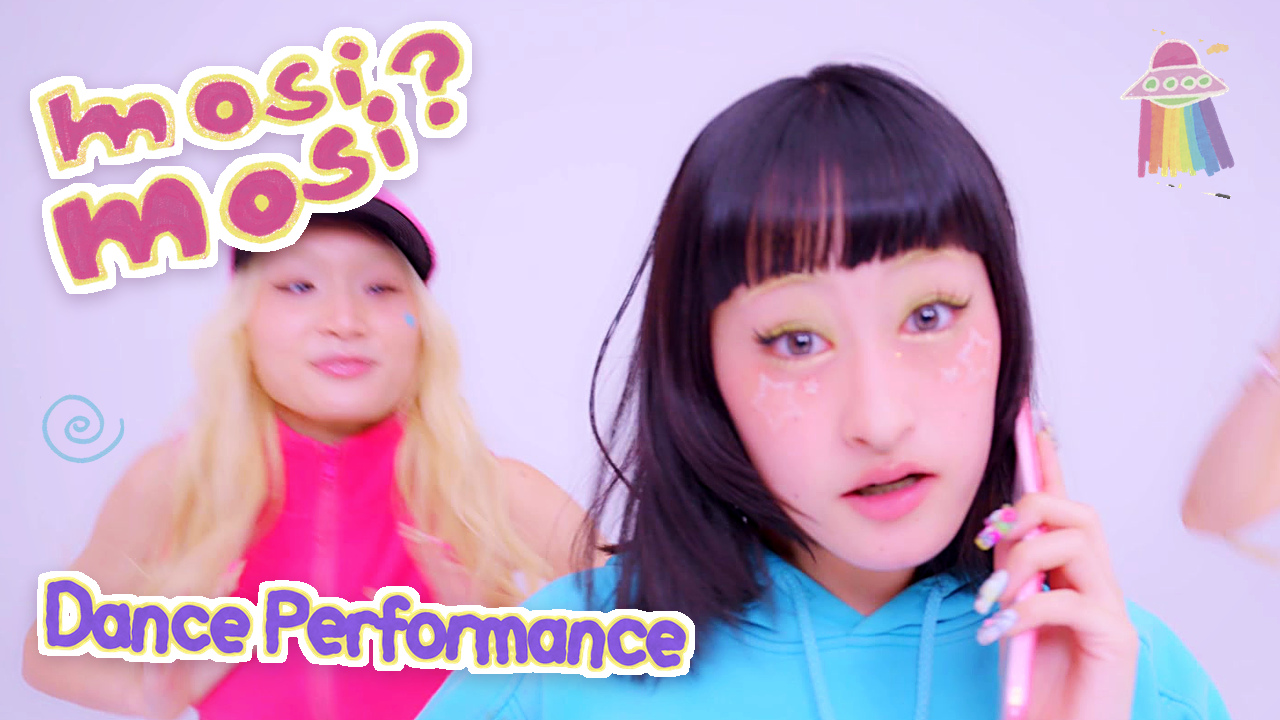
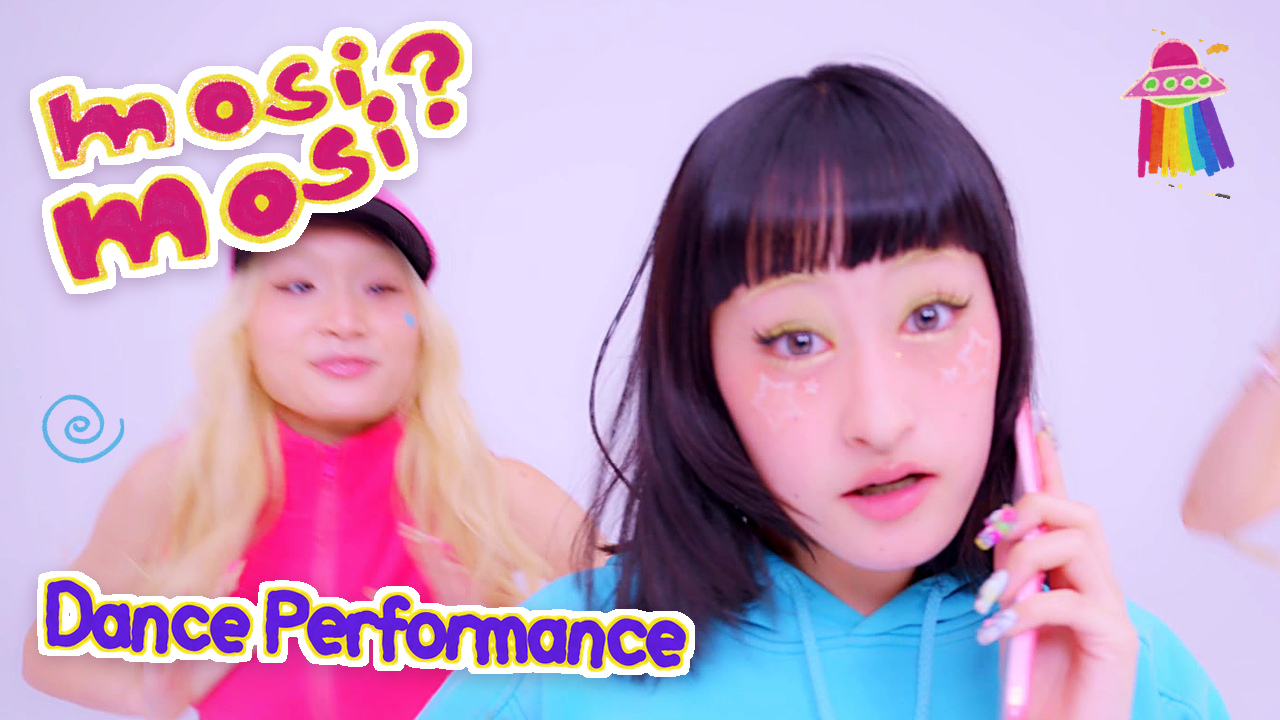
Raise and level the saturation of the lettering and doodle cut-outs
The assets had arrived at saturations ranging from 0.398 to 0.833 (a 2.09x
spread), so the doodles read as washed out next to the lettering. Every asset
is now at p60 = 0.86, a 1.01x spread, with hue and value untouched.

A flat percentage boost would have preserved the spread, so each scanned asset
gets its own gain via S' = 1 - (1-S)**p, which fixes both endpoints and so
neither tints the white highlights nor clips the dense areas. The yellow
outline is shared design language across the lettering, so the three Dance
Performance colourways are regenerated directly at the target colour rather
than normalised afterwards, which would have given each a different yellow.

Thumbnails rebuilt against the new palette; this also helps the graphics
separate from the pale studio wall.

Claude-Session: https://claude.ai/code/session_01WqXH38C7QMDsbv4fSs4Npb

diff --git a/deliverables/mosi-mosi_Dance-Performance-Video/06_logo_assets/README.md b/deliverables/mosi-mosi_Dance-Performance-Video/06_logo_assets/README.md
@@ -22,12 +22,27 @@
 
 | ファイル | 塗り | |
 |---|---|---|
-| `Dance-Performance_cyan.png` | `#26BEE2` | A案で使用 |
-| `Dance-Performance_violet.png` | `#8458D8` | B案で使用 |
-| `Dance-Performance_pink.png` | `#D64A8E` | 「mosi mosi?」と同色。揃えたい場合に |
+| `Dance-Performance_cyan.png` | `#20BDE2` | A案で使用 |
+| `Dance-Performance_violet.png` | `#5E1ED8` | B案で使用 |
+| `Dance-Performance_pink.png` | `#D61E77` | 「mosi mosi?」と同系。揃えたい場合に |
 
 それぞれ `_white-outline.png` が白フチ付き版です。白背景に置くならフチ無し、
 写真や色の上に置くならフチ付きが読みやすくなります。
+
+## 彩度について
+
+**全素材の彩度を上げたうえで、同じ水準にそろえてあります**（HSVのS、上位60%点で 0.86）。
+
+調整前は素材ごとに **0.398〜0.833（2.09倍の開き）** があり、ラクガキが文字に対して
+明らかに沈んでいました。調整後は **0.853〜0.864（1.01倍）** です。
+
+- 動かしたのは彩度のみで、**色相と明度は変えていません**
+- カーブは `S' = 1 - (1-S)^p`。S=0 と S=1 を固定するので、白いハイライトが色に転ばず、
+  濃い部分も飽和して潰れません
+- 素材ごとにゲインを変えています。一律に何%増しでは、元の2.09倍の開きがそのまま残るためです
+- ただし**黄色フチだけは共通の設計要素**なので、「Dance Performance」3色は
+  後段で補正するのではなく、最初から目標彩度の色（フチ `#F3DD22`）で描き直しています。
+  3色とも黄色は `#F1DC21` 前後・S=0.861 で一致しています
 
 > 字数や文言を変えたい場合（`Dance Practice` `Performance Video` など）は
 > 同じ質感で描き直せます。言っていただければ出します。
